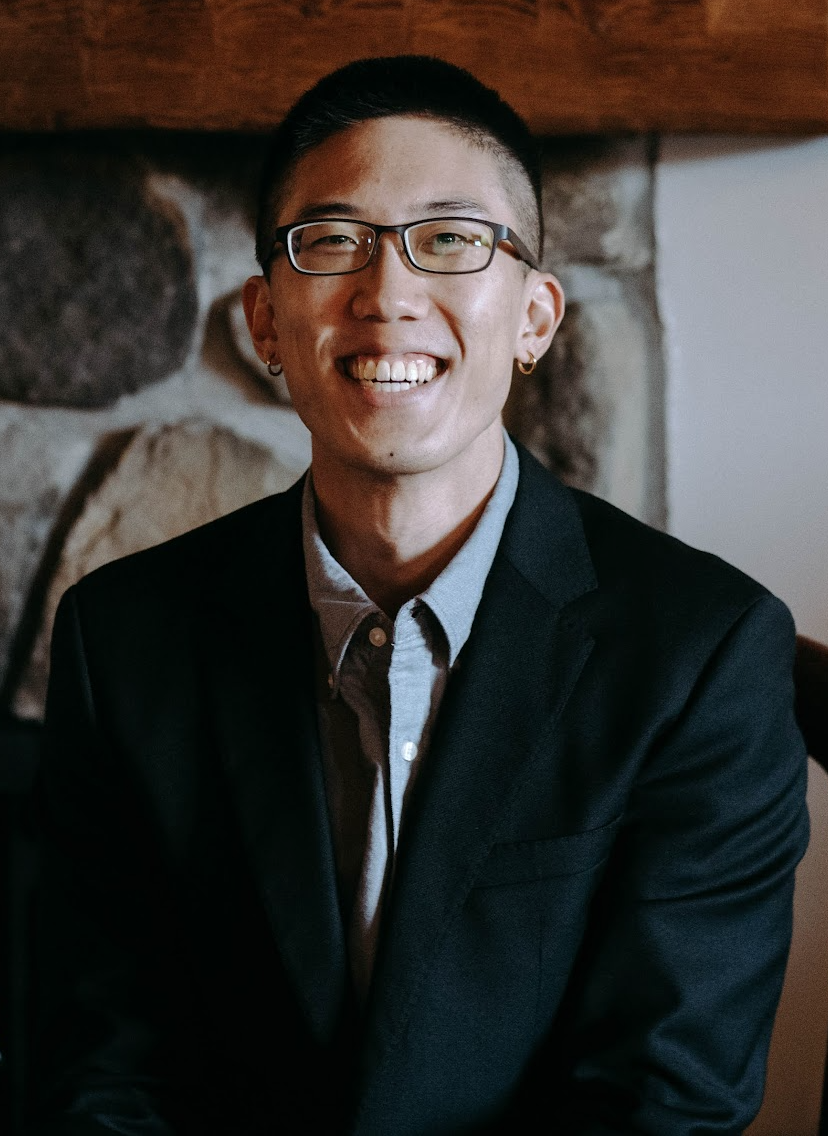
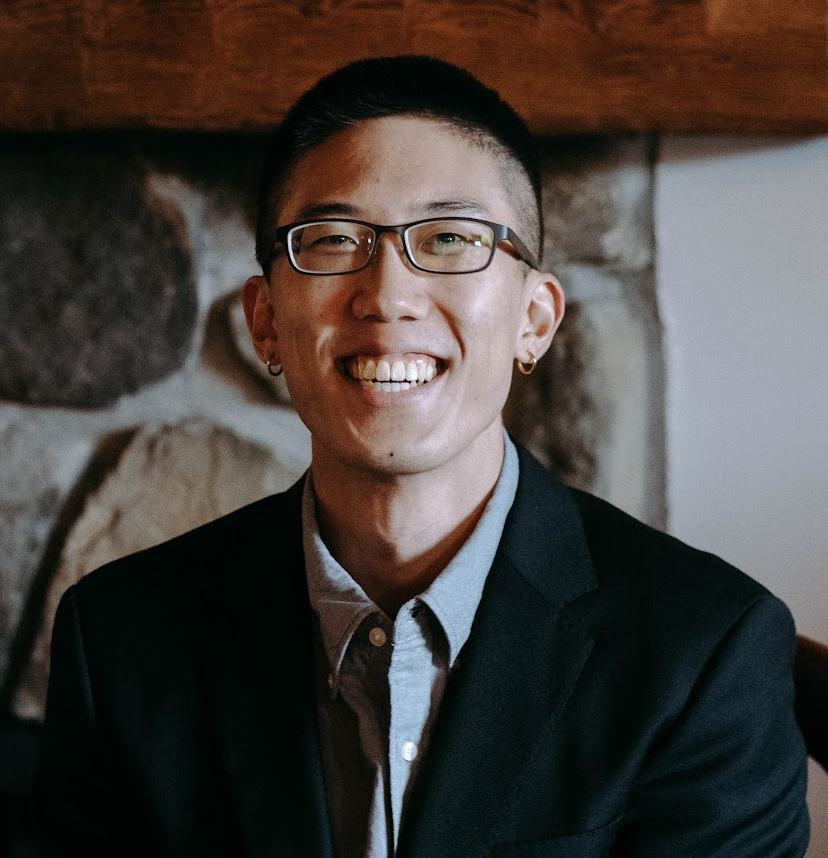
Crop main portrait photo

diff --git a/src/styles.css b/src/styles.css
@@ -6,6 +6,7 @@
 :root {
     --primary-font: 'Playfair Display', system-ui, Helvetica, Arial, sans-serif;
     --secondary-font: 'Roboto', system-ui, Helvetica, Arial, sans-serif;
+    --main-color: #7c395c;
 }
 
 * {
@@ -16,7 +17,7 @@
 
 h1 {
     font-family: var(--primary-font);
-    font-size: 2.75rem;
+    font-size: 2.25rem;
     font-weight: 300;
 }
 
@@ -48,7 +49,7 @@ i {
 
 header {
     padding: 1rem;
-    background: linear-gradient(150deg, #7c395c 40%, white 40%);
+    background: linear-gradient(150deg, var(--main-color) 40%, white 40%);
 }
 
 header > div {
@@ -63,19 +64,27 @@ header > div {
 }
 
 header h1 {
+    background-color: var(--main-color);
     color: white;
     position: absolute;
     bottom: 1rem;
+    padding: 0.5rem;
+    border-radius: 0.25rem;
 
     /* Center absolute position element horizontally */
     text-align: center;
     left: 0;
     right: 0;
+    margin: 0 auto;
+    width: fit-content;
 }
 
 .main-portrait {
+    /* Remove space between bottom of image and parent container */
     display: block;
-    height: 350px;
+
+    height: 250px;
+    border-radius: 0.25rem;
 }
 
 header h2 {
@@ -142,7 +151,7 @@ main {
 /* === Footer === */
 
 footer {
-    background-color: #7c395c;
+    background-color: var(--main-color);
     color: white;
     display: flex;
     flex-direction: column;
